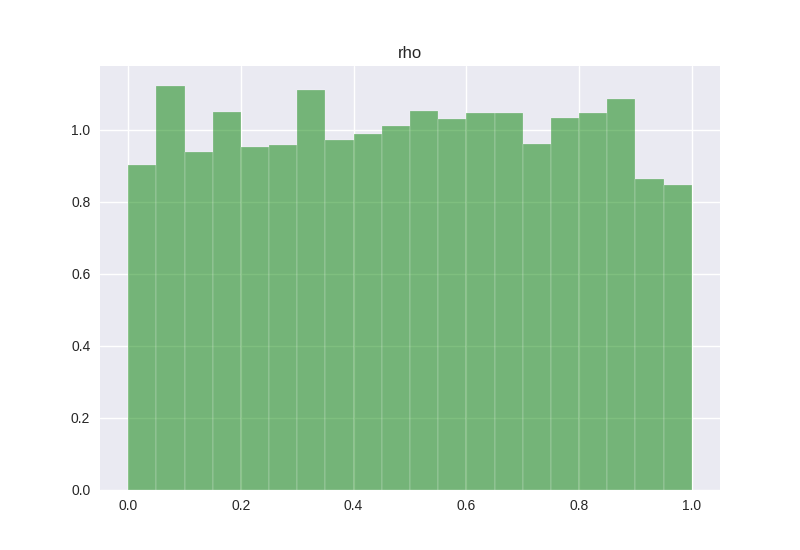
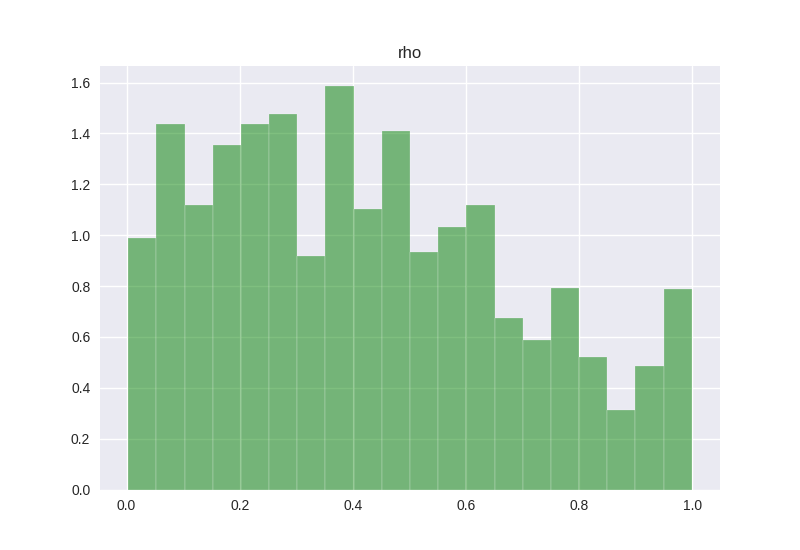
Added ocean heat to large covariance matrix

diff --git a/fortran/coupled_model.py b/fortran/coupled_model.py
@@ -46,6 +46,7 @@ class CoupledModel:
 
 		dfSealevel = pd.read_csv('GMSL_ChurchWhite2011_yr_2015.csv')
 		dfTemperature = pd.read_csv('NOAA_IPCC_RCPtempsscenarios.csv')
+		dfOcean_heat = pd.read_csv('gouretski_ocean_heat_3000m.txt', sep= ' ')
 		self.sealevel = np.array((dfSealevel.loc[(dfSealevel["year"]>=1880) & (dfSealevel["year"]<=2009), "sealevel"]).tolist()) - (dfSealevel.loc[(dfSealevel["year"]>=1880) & (dfSealevel["year"]<=2009), "sealevel"]).mean()
 		self.year = (dfSealevel.loc[(dfSealevel["year"] >= 1880) & (dfSealevel["year"]<=2009), "year"]).tolist()
 		self.sealevel_sigma = (dfSealevel.loc[(dfSealevel["year"]>=1880) & (dfSealevel["year"]<=2009), "uncertainty"]).tolist()
@@ -53,11 +54,14 @@ class CoupledModel:
 		temp = pd.read_csv("temp.txt", header=None, sep=',')
 		temp_unc = temp.drop(temp.columns[[1,3,4,5]], axis = 1)
 		temp_unc.columns = ["year", "uncertainty"]
-		self.temp_unc = (temp_unc.loc[(temp_unc["year"]>=1880) & (temp_unc["year"]<=2009), "uncertainty"]).tolist()
+		self.temp_unc = (temp_unc.loc[(temp_unc["year"]>=1880) & (temp_unc["year"]<=2008), "uncertainty"]).tolist()
+		self.offset = (1952-1880, 2009-1996)	
+		self.ocean_heat = dfOcean_heat['heat-anomaly(10^22J)'].tolist()
+		self.ocean_sigma = dfOcean_heat['std.dev.(10^22J)'].tolist()
+		
 		#forcing = pd.read_csv( 'data/forcing_hindcast.csv')
 		#self.mod_time = np.array(forcing['year'])
 		#self.forcingtotal = np.array(forcing_total.forcing_total(forcing=forcing, alpha_doeclim=self.asc, l_project=False, begyear=self.mod_time[0], endyear=np.max(self.mod_time)))
-
 		#self.alpha = parameter('alpha')
 		self.alpha = values[0]
 		#self.Teq = parameter('Teq')
@@ -81,10 +85,12 @@ class CoupledModel:
 		#self.rho_T = parameter('rho_T')
 		self.rho_T = values[10]
 		self.sigmatsl = values[11]
+		self.sigma_O = values[12]
+		self.rho_O = values[13]
 		self.values = values
 		self.time = len(self.year)
 		#self.stepsizes = {'alpha': .01, 'Teq': .05, 'S0': 5, 'rho': .001, 'sigma_ar': .1, 'climate_sensitivity': 0.16, 'ocean_vertical_diffusivity': 0.17, 'aerosol_scaling': 0.025, 'T_0': 0.03, 'sigma_T': 5e-4, 'rho_T': 0.007}
-		self.stepsizes = [ .01,  .05,  5,  .001, .1,  0.16,  0.17,  0.025,0.03, 5e-4, 0.007, 0.01]		
+		self.stepsizes = np.array([ .01,  .05,  5,  .001, .1,  0.16,  0.17,  0.025,0.03, 5e-4, 0.007, 0.01, 5e-4, 0.007])		
 		#self.stepsizes = {'alpha': .01, 'Teq': .05, 'S0': 5, 'climate_sensitivity': 0.16, 'ocean_vertical_diffusivity': 0.17, 'aerosol_scaling': 0.025, 'T_0': 0.03}
 		
 	def update_cov(self, X, s_d, size):
@@ -94,6 +100,19 @@ class CoupledModel:
 		eps = 0.0001
 		I_d = np.identity(size)
 		return s_d*cov + I_d*eps*s_d
+
+	def flux_to_heat(self, heatflux_mixed, heatflux_interior):
+		flnd = 0.29 # area land fraction
+		fso = 0.95 # ocean area fraction of interior
+		secs_per_year = 31556926
+		earth_area = 510065600 * (10**6)
+		ocean_area = (1-flnd)*earth_area
+		powtoheat = ocean_area*secs_per_year / 10**22 # in 10^22 J/yr
+
+		heat_mixed = np.cumsum(heatflux_mixed) * powtoheat
+		heat_interior = fso * np.cumsum(heatflux_interior) * powtoheat
+		ocean_heat = heat_mixed + heat_interior
+		return(ocean_heat)
 
 	def prior(self, theta):
 
@@ -113,6 +132,9 @@ class CoupledModel:
 		if (self.T_0): log_prior +=  stats.uniform.logpdf(theta[8], loc = -0.3, scale = 0.6)
 		if (self.sigma_T): log_prior +=  stats.uniform.logpdf(theta[9], loc = 0.05, scale = 4.95)
 		if (self.rho_T): log_prior +=  stats.uniform.logpdf(theta[10], loc =  0, scale = 0.999)
+		if (self.sigmatsl): log_prior +=  stats.uniform.logpdf(theta[11], loc =  0.1, scale = 0.9)
+		if (self.sigma_O): log_prior +=  stats.uniform.logpdf(theta[12], loc = 0.05, scale = 4.95)
+		if (self.rho_O): log_prior +=  stats.uniform.logpdf(theta[13], loc =  0, scale = 0.999)
 		#print(log_prior)
 		return log_prior
 
@@ -122,29 +144,30 @@ class CoupledModel:
 			temp1 = [rho**j for j in range(i,0,-1)]
 			temp2 = [rho**j for j in range(length-i)]
 			ar1.append(np.array(temp1+temp2))
-		ar1 = np.multiply(np.array(ar1), (sigma_ar**2)/(1-rho**2))
-		return ar1
+		return np.array(ar1)*(sigma_ar**2)/(1-rho**2)
 
-	def logp(self, theta, deltat, temperatures, model):
-
+	def logp(self, theta, deltat, temperatures, model, ocheat):
 
 		log_prior = self.prior(theta)
-		return log_prior 
+		if np.isinf(log_prior): return log_prior
 		N = len(self.sealevel)
 		#rho, sigma_ar = 0.5, 3
 		#rho_t, sigma_t = 0.55, 1
 		resid = np.array([self.sealevel[i] - model[i] for i in range(len(model))])
+		o_residual = np.array(ocheat) - np.array(self.ocean_heat)
 		t_residual = self.dfTemperature - temperatures
 
 		sigma_obs = np.diag([i**2 for i in self.sealevel_sigma])
 		sigma_obs_T = np.diag([i**2 for i in self.temp_unc])
+		sigma_obs_O = np.diag([i**2 for i in self.ocean_sigma])
 		
 		sigma_ar1 = self.build_ar1(theta[3], theta[4], N) 
 		sigma_ar1_T = self.build_ar1(theta[10], theta[9], N)
-
-		log_prior = self.prior(theta)
-
-		if np.isinf(log_prior): return -np.inf
+		sigma_ar1_O = self.build_ar1(theta[13], theta[12], 44)
+		#a = np.zeros((N, N), float)
+		#print(a)
+		#for i in range(self.offset[0], self.offset[0] + len(sigma_ar1_O)):
+			#a[i,:] = np.array([0.]*self.offset[0] + list(sigma_ar1_O) + [0.]*self.offset[1])
 		
 		a = np.zeros((self.time, self.time), float)
 		np.fill_diagonal(a, theta[11])
@@ -153,14 +176,28 @@ class CoupledModel:
 		cov = np.multiply((np.transpose(cov) + cov), 1/2)
 		temp1 = np.concatenate((a, cov), axis = 1)
 		#cov = sigma_obs
-		#log_likelihood = stats.multivariate_normal.logpdf(resid, mean = None, cov=cov)
+		log_likelihood = stats.multivariate_normal.logpdf(resid, mean = None, cov=cov)
 		cov_T = np.add(sigma_obs_T,sigma_ar1_T)
 		cov_T = np.multiply((np.transpose(cov_T) + cov_T), 1/2)
-		temp2 = np.concatenate((cov_T, a), axis = 1)
-		bigcov = np.concatenate((temp1, temp2), axis = 0)
-		#log_likelihood_T = stats.multivariate_normal.logpdf(t_residual, mean=None, cov=cov_T)
-		#log_posterior = log_likelihood + log_prior + log_likelihood_T
-		log_posterior = log_prior + stats.multivariate_normal.logpdf(np.concatenate((resid,t_residual)) , mean=None, cov=bigcov)
+		temp2 = np.concatenate(( cov_T, a), axis = 1)
+		cov_O = np.add(sigma_obs_O,sigma_ar1_O)
+		cov_O = np.multiply((np.transpose(cov_O) + cov_O), 1/2)
+		#cov_O = np.add(sigma_obs_T,sigma_ar1_T)
+		#cov_O = np.multiply((np.transpose(cov_T) + cov_T), 1/2)
+		#temp3 = np.concatenate((cov_T, a), axis = 1)
+		#print(a)
+		#bigcov = np.concatenate((temp1, temp2), axis = 0)
+		#print(bigcov)
+		#bigcov = np.multiply((np.transpose(bigcov) + bigcov), 1/2)
+		#print(bigcov)
+		log_likelihood_T = stats.multivariate_normal.logpdf(t_residual, mean= None, cov=cov_T)
+		log_likelihood_O = stats.multivariate_normal.logpdf(o_residual, mean= None, cov=cov_O)		
+		#log_likelihood_T = stats.multivariate_normal.logpdf(o_residual, mean= None, cov=cov_O)		
+		#big_AR1 = stats.multivariate_normal.logpdf(np.concatenate((resid,t_residual)) , mean=None, cov=bigcov)
+		#print(log_likelihood, log_likelihood_T)
+		log_posterior = log_prior + log_likelihood + log_likelihood_T + log_likelihood_O
+		#log_posterior = log_prior + big_AR1
+		#print(log_posterior)
 		return log_posterior
 
 	def update_mean(self, m, X):
@@ -198,10 +235,12 @@ class CoupledModel:
 		theta = np.array(self.values)
 		print('Initial estimate for parameters -', theta)
 		temp_out, heatflux_mixed_out, heatflux_interior_out, gmsl_out = \
-		doeclim_gmsl(asc = theta[7], t2co_in = theta[5], kappa_in=theta[8], alphasl_in = theta[0], Teq = theta[1], SL0 = theta[2]) 
+		doeclim_gmsl(asc = theta[7], t2co_in = theta[5], kappa_in=theta[6], alphasl_in = theta[0], Teq = theta[1], SL0 = theta[2]) 
+		ocheat = self.flux_to_heat(heatflux_mixed_out, 	heatflux_interior_out)
+		ocheat = ocheat[self.offset[0]:self.offset[0]+ 44]	
 		temp_out += self.T_0
 
-		lp = self.logp(theta, deltat, temp_out, gmsl_out)
+		lp = self.logp(theta, deltat, temp_out, gmsl_out, ocheat)
 		theta_best = theta
 		lp_max = lp
 		theta_new = [0.] * len(theta)
@@ -216,25 +255,25 @@ class CoupledModel:
 		for i in (range(N)):
 			if i > 500: step = self.update_cov(mcmc_chains[:i], sd, len(theta))
 			theta_new = list(np.random.multivariate_normal(theta, step))
-			#theta_new[3] = 0.5			
-			#theta_new[4] = 3
-			#theta_new[9] = 0.1			
-			#theta_new[10] = 0.55
 			temp_out, heatflux_mixed_out, heatflux_interior_out, gmsl_out = \
-			doeclim_gmsl(asc = theta[7], t2co_in = theta[5], kappa_in=theta[8], alphasl_in = theta[0], Teq = theta[1], SL0 = theta[2]) 
+			doeclim_gmsl(asc = theta[7], t2co_in = theta[5], kappa_in=theta[6], alphasl_in = theta[0], Teq = theta[1], SL0 = theta[2]) 
 			temp_out += theta[8]
-			lp_new = self.logp(theta_new, deltat, temp_out, gmsl_out)
+			ocheat = self.flux_to_heat(heatflux_mixed_out, 	heatflux_interior_out)			
+			ocheat = ocheat[self.offset[0]:self.offset[0]+ 44]			
+			lp_new = self.logp(theta_new, deltat, temp_out, gmsl_out, ocheat)
 			if np.isinf(lp_new):
 				mcmc_chains[i,:] = theta
 				continue
-			lq = lp_new - lp
+			#print(lp, lp_new, 'difference')
+			lq = np.abs(lp_new - lp)
 			
-			lr = np.log(np.random.uniform(0, 1))
+			lr = np.log(np.random.uniform(1,2 ))
 			#print(lr, lq)
 			if (lr < lq):
 				theta = theta_new
 				lp = lp_new
 				accepts += 1
+				#print('NEW VALUE')
 				if lp > lp_max:
 					theta_best = theta
 					lp_max = lp
@@ -246,14 +285,16 @@ class CoupledModel:
 #'sigma_ar': 3, 'climate_sensitivity': 3.1, 'ocean_vertical_diffusivity': 3.5, \
 #'aerosol_scaling': 1.1, 'T_0': -0.06, 'sigma_T': 0.1, 'rho_T': 0.55}
 
-values = [3.4, -0.5, -100, .5, 3, 3.1, 3.5, 1.1, -0.06, 0.1, 0.55, 0.85]
+values = [3.4, -0.5, -100, .5, 3, 3.1, 3.5, 1.1, -0.06, 0.1, 0.55, 0.85, 3, 0.5]
+#values = [0.5,0.5,0.5,0.5,0.5,0.5,0.5,0.5,0.5,0.5,0.5,0.5]
 #values = [3.4, -0.5, -100, 3.1, 3.5, 1.1, -0.06]
 
 CM = CoupledModel(values)
 
 mcmc_chain,accept_rate = CM.chain(1, NUMBER)
 print(accept_rate)
-pamnames = ['alpha', 'Teq', 'S0', 'rho', 'sigma_ar', 'climate_sensitivity', 'ocean_vertical_diffusivity', 'aerosol_scaling', 'T_0', 'sigma_T', 'rho_T', 'sigmatsl']
+pamnames = ['alpha', 'Teq', 'S0', 'rho', 'sigma_ar', 'climate_sensitivity', 'ocean_vertical_diffusivity', 'aerosol_scaling', 'T_0' \
+, 'sigma_T', 'rho_T', 'sigmatsl']#, 'sigma_O', 'rho_O']
 #pamnames = ['alpha', 'Teq', 'sigma_ar', 'climate_sensitivity', 'ocean_vertical_diffusivity', 'aerosol_scaling', 'T_0']
 
 #print(mcmc_chain[:200,0])
@@ -263,6 +304,7 @@ if NUMBER >= 50000:
 	temp_chain2 = mcmc_chain[40000:]
 	conv = CM.diagnostic([temp_chain1, temp_chain2])
 	mcmc_chain = mcmc_chain[40000:]
+	print(conv)
 
 for i in range(12):
 	fig, ax = plt.subplots(nrows=1, ncols=1 )  # create figure & 1 axis
